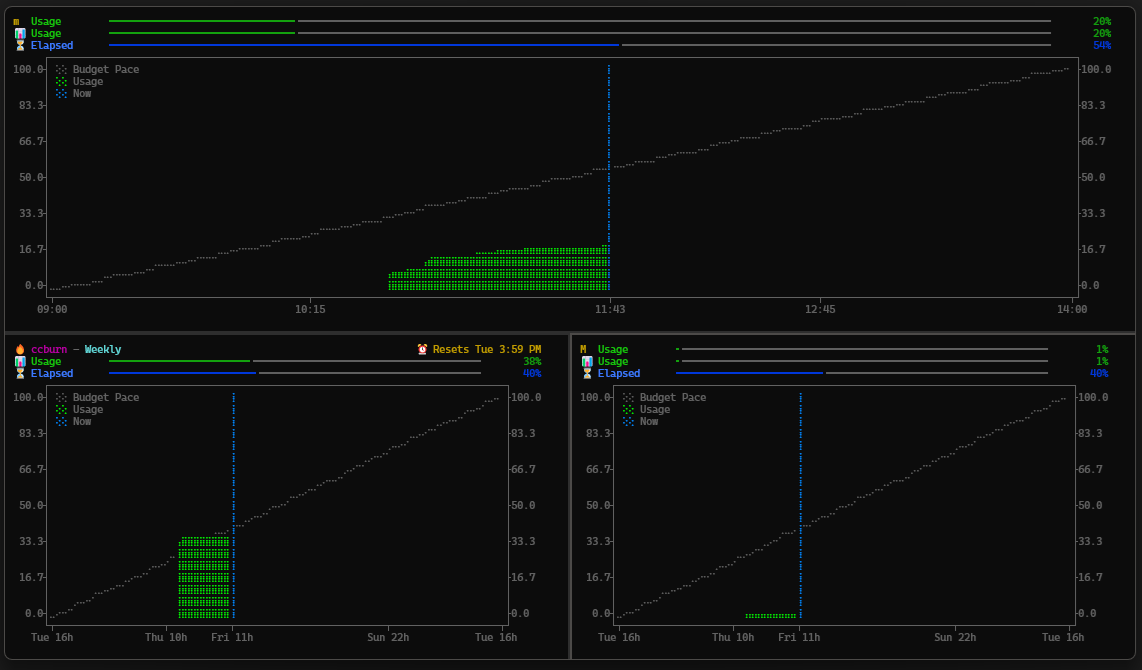
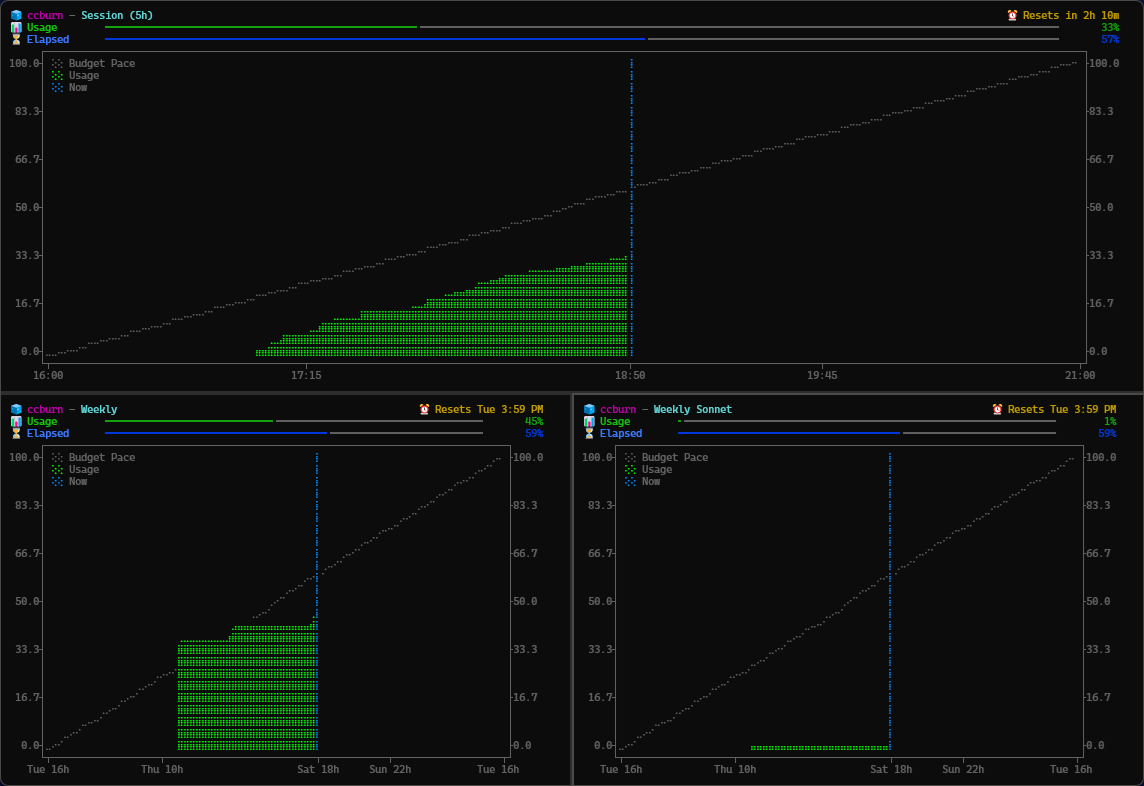
📝 Update README with branding and slogan
Add burning cash hero, slogan, and update pace indicators

diff --git a/README.md b/README.md
@@ -1,12 +1,20 @@
-# ccburn
+# 🔥 ccburn
 
 [![CI](https://img.shields.io/github/actions/workflow/status/JuanjoFuchs/ccburn/ci.yml?branch=main&label=CI)](https://github.com/JuanjoFuchs/ccburn/actions/workflows/ci.yml)
 [![Release](https://img.shields.io/github/actions/workflow/status/JuanjoFuchs/ccburn/release.yml?label=Release)](https://github.com/JuanjoFuchs/ccburn/actions/workflows/release.yml)
 [![PyPI](https://img.shields.io/pypi/v/ccburn)](https://pypi.org/project/ccburn/)
 [![Python](https://img.shields.io/pypi/pyversions/ccburn)](https://pypi.org/project/ccburn/)
 [![GitHub Release](https://img.shields.io/github/v/release/JuanjoFuchs/ccburn)](https://github.com/JuanjoFuchs/ccburn/releases)
-[![WinGet](https://img.shields.io/badge/WinGet-JuanjoFuchs.ccburn-blue)](https://winstall.app/apps/JuanjoFuchs.ccburn)
+[![WinGet](https://img.shields.io/badge/WinGet-pending-yellow)](https://github.com/microsoft/winget-pkgs/pulls?q=is%3Apr+ccburn)
 [![License](https://img.shields.io/badge/license-MIT-green)](LICENSE)
+
+<p align="center">
+  <img src="docs/cash1.png" alt="Burning tokens" width="140">
+</p>
+
+<p align="center">
+  <strong>Watch your tokens burn — before you get burned.</strong>
+</p>
 
 TUI and CLI for Claude Code usage limits — burn-up charts, compact mode for status bars, JSON for automation.
 
@@ -15,7 +23,7 @@ TUI and CLI for Claude Code usage limits — burn-up charts, compact mode for st
 ## Features
 
 - **Real-time burn-up charts** — Visualize session and weekly usage with live-updating terminal graphics
-- **Pace indicators** — See if you're ahead, on pace, or behind your usage budget (🧊/🔥/🚨)
+- **Pace indicators** — 🧊 Cool. 🔥 On pace. 🚨 Too hot.
 - **Multiple output modes** — Full TUI, compact single-line for status bars, or JSON for scripting
 - **Automatic data persistence** — SQLite-backed history for trend analysis
 - **Dynamic window title** — Terminal tab shows current usage at a glance
@@ -23,7 +31,7 @@ TUI and CLI for Claude Code usage limits — burn-up charts, compact mode for st
 
 ## Installation
 
-### Windows (WinGet)
+### Windows (WinGet) — *pending approval*
 
 ```powershell
 winget install JuanjoFuchs.ccburn
